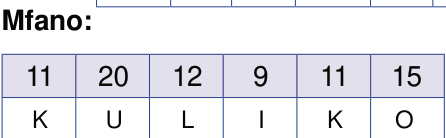
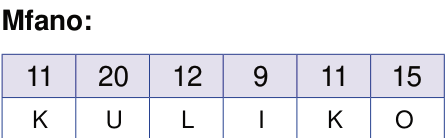
Remove stray boxes from navigation 14 example

Changed region(s): [[0.204, 0.0, 1.0, 0.058]]

diff --git a/pg013_sec001.html b/pg013_sec001.html
@@ -97,7 +97,7 @@
       <div class="sr-only">
         <span data-id="pg013_n0007" class="text-[32px] leading-none font-bold text-[#111111] max-lg:text-[28px] max-sm:text-[22px]">Mfano:</span>
       </div>
-      <img src="images/pg013_im003.png" data-id="pg013_im003" alt="Mfano wa neno lililoundwa" class="block max-w-full w-[446px] h-auto max-sm:w-full max-sm:max-w-[420px]" style="max-width: 100%; height: auto; border-bottom: 2px solid #6e84d8; box-sizing: border-box;">
+      <img src="images/pg013_im003.png?v=2" data-id="pg013_im003" alt="Mfano wa neno lililoundwa" class="block max-w-full w-[446px] h-auto max-sm:w-full max-sm:max-w-[420px]" style="max-width: 100%; height: auto; border-bottom: 2px solid #6e84d8; box-sizing: border-box;">
     </div>
 
     <div class="space-y-5 max-sm:space-y-6">
